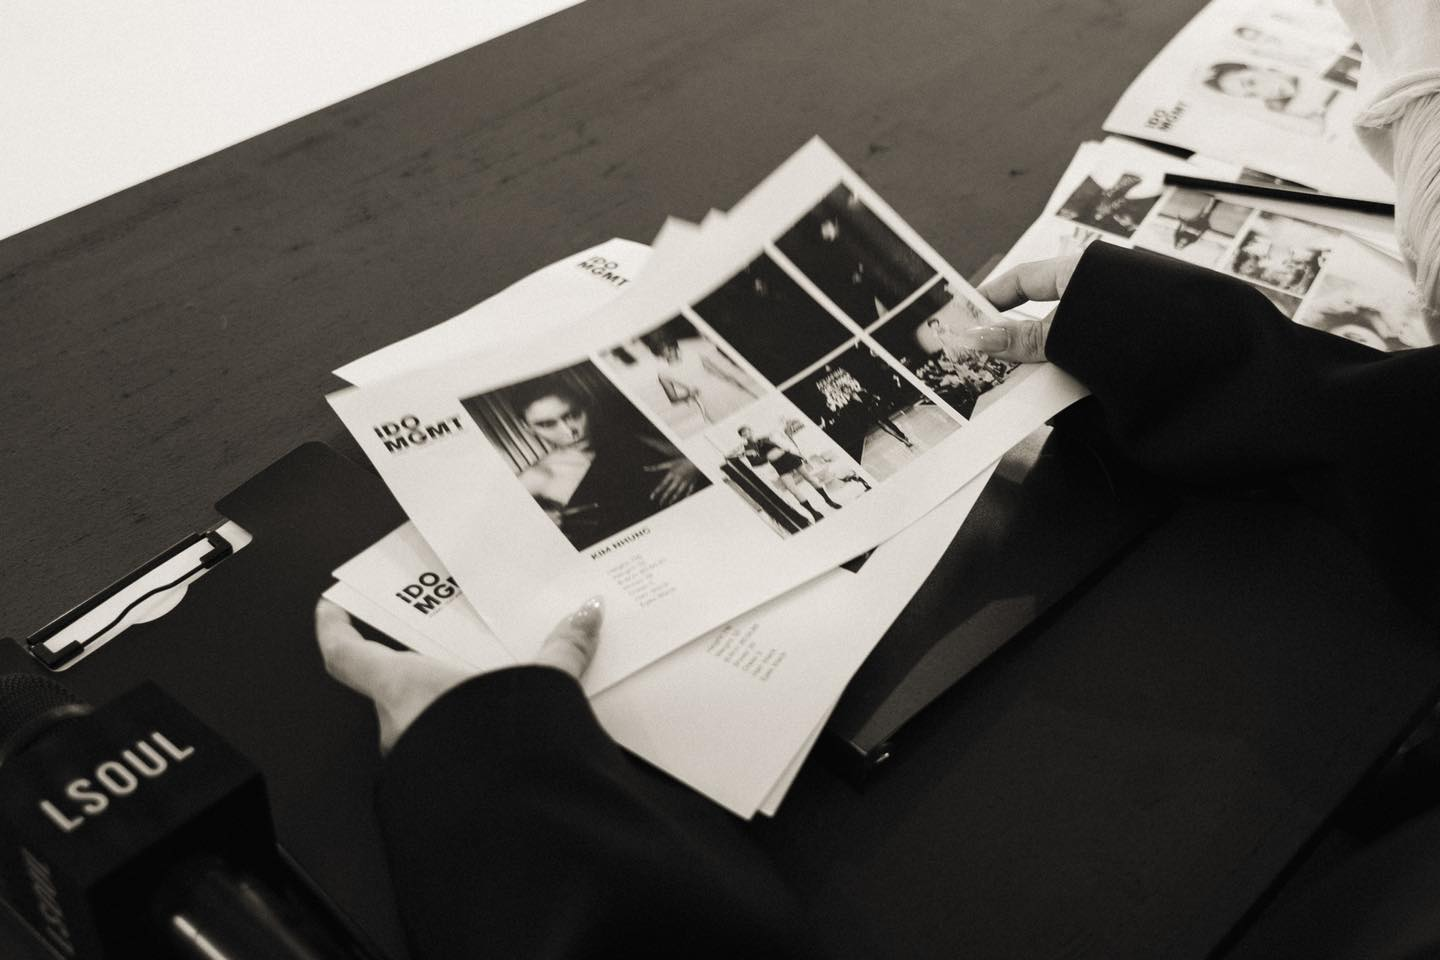
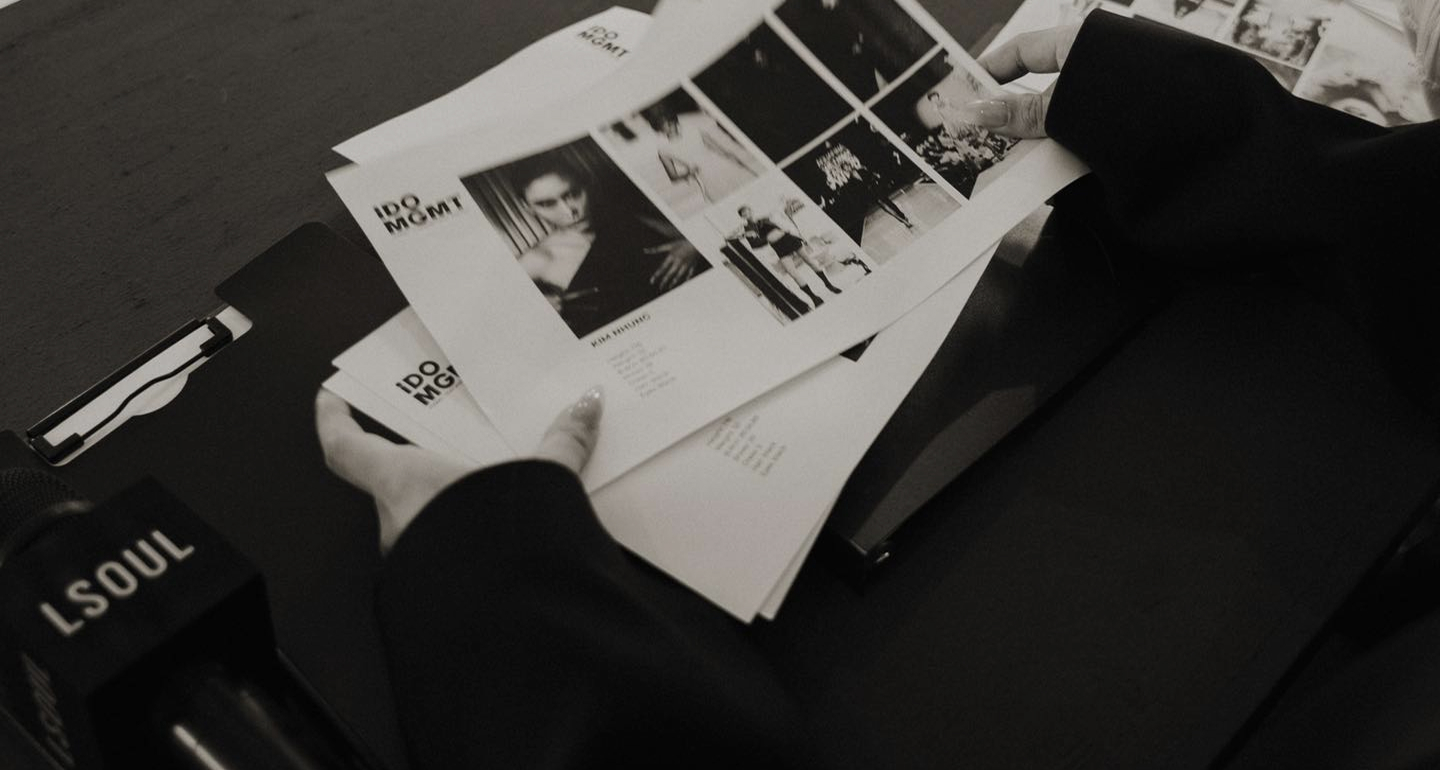
refactor: polish component styles and optimize hero images
- Refine KeyProjectSection layout and spacing
- Update ContactSection styling and component structure
- Optimize hero background images for better performance
- Minor layout.tsx update

diff --git a/app/components/key-project-section/KeyProjectSection.module.css b/app/components/key-project-section/KeyProjectSection.module.css
@@ -14,7 +14,8 @@
   overflow: hidden;
   margin-top: -1.5rem;
   position: relative;
-  z-index: 2;
+  padding-top: 8rem;
+  padding-bottom: 8rem;
 }
 
 .projectHeader {
@@ -171,7 +172,7 @@
 }
 
 .mainImageContainer {
-  height: 18.5625rem;
+  height: 37rem;
   position: relative;
   width: 100%;
 }
@@ -291,36 +292,32 @@
 
 .galleryGrid {
   display: grid;
-  grid-template-columns: auto 1fr;
-  grid-template-rows: auto auto;
-  gap: 0.75rem;
+  grid-template-columns: 10rem 1fr;
+  grid-template-rows: 18rem 18rem;
+  gap: 1rem;
+  height: 37rem;
 }
 
 .galleryImage1,
 .galleryImage2,
 .galleryImage3 {
   position: relative;
+  overflow: hidden;
 }
 
 .galleryImage1 {
   grid-column: 1 / 2;
   grid-row: 1 / 3;
-  height: 17.9375rem;
-  width: 10.0625rem;
 }
 
 .galleryImage2 {
   grid-column: 2 / 3;
   grid-row: 1 / 2;
-  height: 8.625rem;
-  width: 100%;
 }
 
 .galleryImage3 {
   grid-column: 2 / 3;
   grid-row: 2 / 3;
-  height: 8.5625rem;
-  width: 100%;
 }
 
 .galleryImage {
@@ -332,11 +329,14 @@
 
 @media (min-width: 48.0625rem) {
   .keyProjectWrapper {
-    width: 100vw;
-    max-width: 90rem;
-    margin-left: 50%;
-    transform: translateX(-50%);
+    width: 100%;
     margin-top: -2rem;
+  }
+
+  .keyProjectSection {
+    max-width: 90rem;
+    margin: 0 auto;
+    width: 100%;
   }
 
   .projectHeader {
@@ -396,8 +396,7 @@
   .mainImageContainer {
     grid-column: 1 / 4;
     grid-row: 1 / 2;
-    height: auto;
-    min-height: 37.5rem;
+    height: 37rem;
   }
 
   .infoTextSection {
@@ -417,28 +416,23 @@
     grid-row: 2 / 3;
     display: grid;
     grid-template-columns: 1fr 1.6fr;
-    grid-template-rows: 1fr 1fr;
-    gap: 0.75rem;
+    grid-template-rows: 18rem 18rem;
+    gap: 1rem;
+    height: 37rem;
   }
 
   .galleryImage1 {
     grid-column: 1 / 2;
     grid-row: 1 / 3;
-    height: 100%;
-    width: 100%;
   }
 
   .galleryImage2 {
     grid-column: 2 / 3;
     grid-row: 1 / 2;
-    height: 100%;
-    width: 100%;
   }
 
   .galleryImage3 {
     grid-column: 2 / 3;
     grid-row: 2 / 3;
-    height: 100%;
-    width: 100%;
   }
 }

diff --git a/app/components/contact-section/ContactSection.tsx b/app/components/contact-section/ContactSection.tsx
@@ -104,9 +104,9 @@ export function ContactSection({ backgroundImageUrl, onSubmit }: ContactSectionP
           </div>
 
           {/* White Form Area */}
-          <div className={styles.formContainer}>
+          <div className={styles.formContainer} suppressHydrationWarning>
             <form className={styles.form} onSubmit={handleSubmit}>
-              <div className={styles.formGroup}>
+              <div className={styles.formGroup} suppressHydrationWarning>
                 <input
                   type="text"
                   id="name"
@@ -120,7 +120,7 @@ export function ContactSection({ backgroundImageUrl, onSubmit }: ContactSectionP
                 />
               </div>
 
-              <div className={styles.formGroup}>
+              <div className={styles.formGroup} suppressHydrationWarning>
                 <input
                   type="email"
                   id="email"
@@ -134,7 +134,7 @@ export function ContactSection({ backgroundImageUrl, onSubmit }: ContactSectionP
                 />
               </div>
 
-              <div className={styles.formGroup}>
+              <div className={styles.formGroup} suppressHydrationWarning>
                 <input
                   type="text"
                   id="company"
@@ -146,7 +146,7 @@ export function ContactSection({ backgroundImageUrl, onSubmit }: ContactSectionP
                 />
               </div>
 
-              <div className={styles.formGroup}>
+              <div className={styles.formGroup} suppressHydrationWarning>
                 <textarea
                   id="message"
                   name="message"

diff --git a/app/[locale]/layout.tsx b/app/[locale]/layout.tsx
@@ -124,6 +124,7 @@ export default async function LocaleLayout({
     <html lang={typedLocale}>
       <body
         className={`${publicSans.variable} ${jetbrainsMono.variable} ${spectral.variable} antialiased`}
+        suppressHydrationWarning
       >
         <TranslationProvider locale={typedLocale}>
           {children}

diff --git a/app/components/contact-section/ContactSection.module.css b/app/components/contact-section/ContactSection.module.css
@@ -6,6 +6,8 @@
   align-items: center;
   justify-content: flex-end;
   padding: 3rem 1.5rem;
+  border-radius: 1.25rem 1.25rem 0 0;
+  overflow: hidden;
 }
 
 .backgroundContainer {
